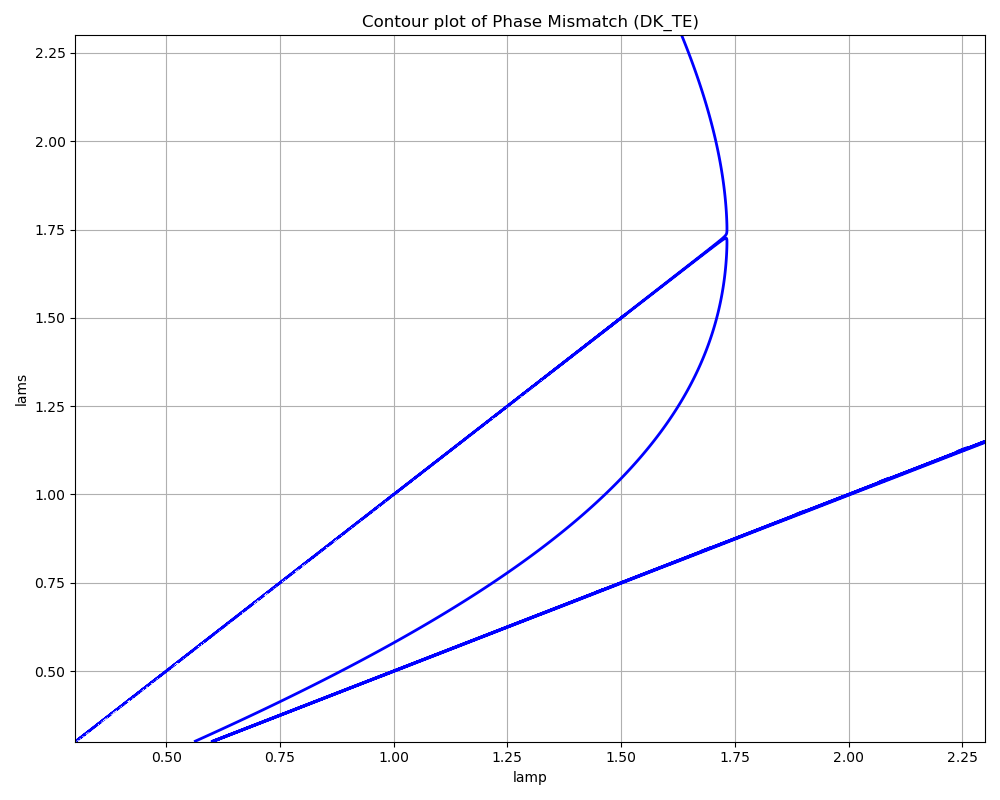
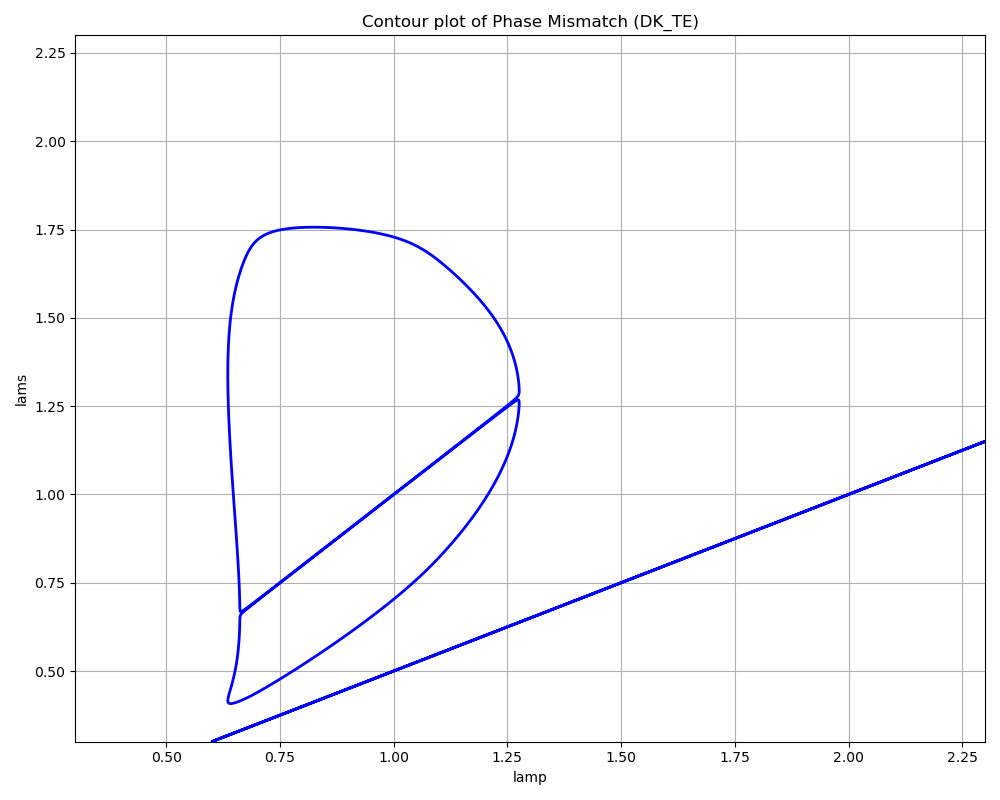
Phaseshift3d Tau

diff --git a/Fase5/phase_matching_3d.py b/Fase5/phase_matching_3d.py
@@ -108,7 +108,7 @@ pathTE = '/home/jay/repos/F3002C_Reto/Fase4/Sweep/Matlab/Waveguide727778_1000000
 
 pathTE = 'Fase4/Sweep/Matlab/Waveguide1000000_750000_1580_Mode3.mat'
 
-
+path = '/home/jay/repos/F3002C_Reto/Fase4/Sweep/Matlab/Waveguide727778_1000000_1580_Mode3.mat'
 
 #pathTM = '/home/jay/repos/F3001C_Reto/CodigoFinal/Modos/Modes/TM/Waveguide1000_325_1555.mat'
 
@@ -144,10 +144,10 @@ for i in range(int(0),int(n/16),1):
     # Here's your plotting line with the new color:
     plt.contour(lamp, lams, DK_3d[:, slice_index, :], [0], colors=hex_color, linewidths=0.5)
 
-# Then plot the 3 taus
-# plt.contour(lamp, lams, tau_i, [0], color= 'r', linewidths=2)
-# plt.contour(lamp, lams, tau_s, [0], color= 'g', linewidths=2)
-# plt.contour(lamp, lams, tau_r, [0], color= 'b', linewidths=2)
+    # Then plot the 3 taus
+    plt.contour(lamp, lams, tau_i[:, slice_index, :], [0], color= 'r', linewidths=2)
+    plt.contour(lamp, lams, tau_s[:, slice_index, :], [0], color= 'g', linewidths=2)
+    plt.contour(lamp, lams, tau_r[:, slice_index, :], [0], color= 'b', linewidths=2)
 
 
 plt.title('Contour plot of Phase Mismatch (DK_TE)')

diff --git a/Fase5/spectral_sequential.py b/Fase5/spectral_sequential.py
@@ -53,15 +53,15 @@ path = '/home/jay/repos/F3002C_Reto/Fase4/Sweep/Matlab/Waveguide727778_1000000_1
 
 neff_values, lambda_values = load_data_from_mat(path)
 
-"""  CIERRA LOS OJOS MAX NO VEAS ESTO   """
+# """  CIERRA LOS OJOS MAX NO VEAS ESTO   """
 
-neff_df = pd.read_csv('/home/jay/Downloads/NeffP12.csv')
-filtered_rows = neff_df[~neff_df.isin([333, 555]).any(axis=1)]
-neffLimpio = filtered_rows.copy()
-Neff_limpio = neffLimpio.values
-lambda_values = np.array(neffLimpio.columns, dtype=float)
-Neff_limpio, lambda_values
-neff_values = Neff_limpio[0]
+# neff_df = pd.read_csv('/home/jay/Downloads/NeffP12.csv')
+# filtered_rows = neff_df[~neff_df.isin([333, 555]).any(axis=1)]
+# neffLimpio = filtered_rows.copy()
+# Neff_limpio = neffLimpio.values
+# lambda_values = np.array(neffLimpio.columns, dtype=float)
+# Neff_limpio, lambda_values
+# neff_values = Neff_limpio[0]
 
 # Fit polynomial
 coefficients = fit_polynomial(lambda_values, neff_values)
@@ -111,10 +111,10 @@ plot_contour(lamp, lams, DK_TE, path)
 
 
 
-L = 0.03e6 # in mm
+L = 0.09e6 # in mm
 SIGMA = 3e12
 L0 = 0.833
-L0 = 0.648
+L0 = 0.649
 NL = 0
 print(L0)
 
